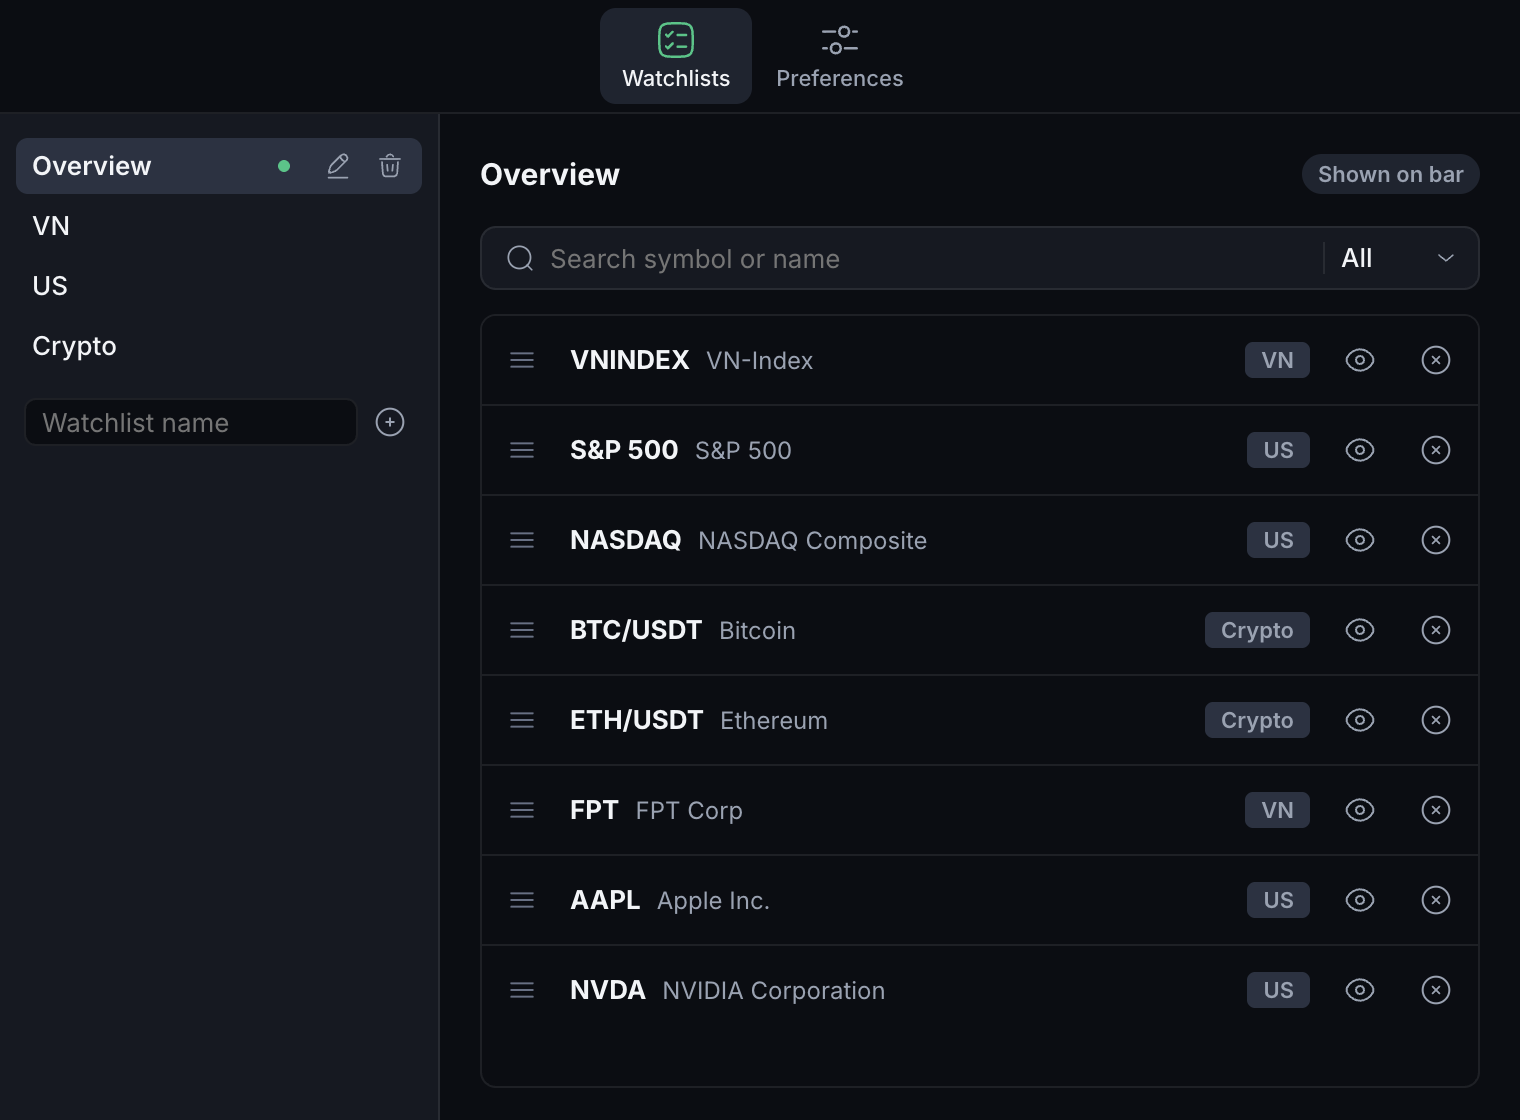
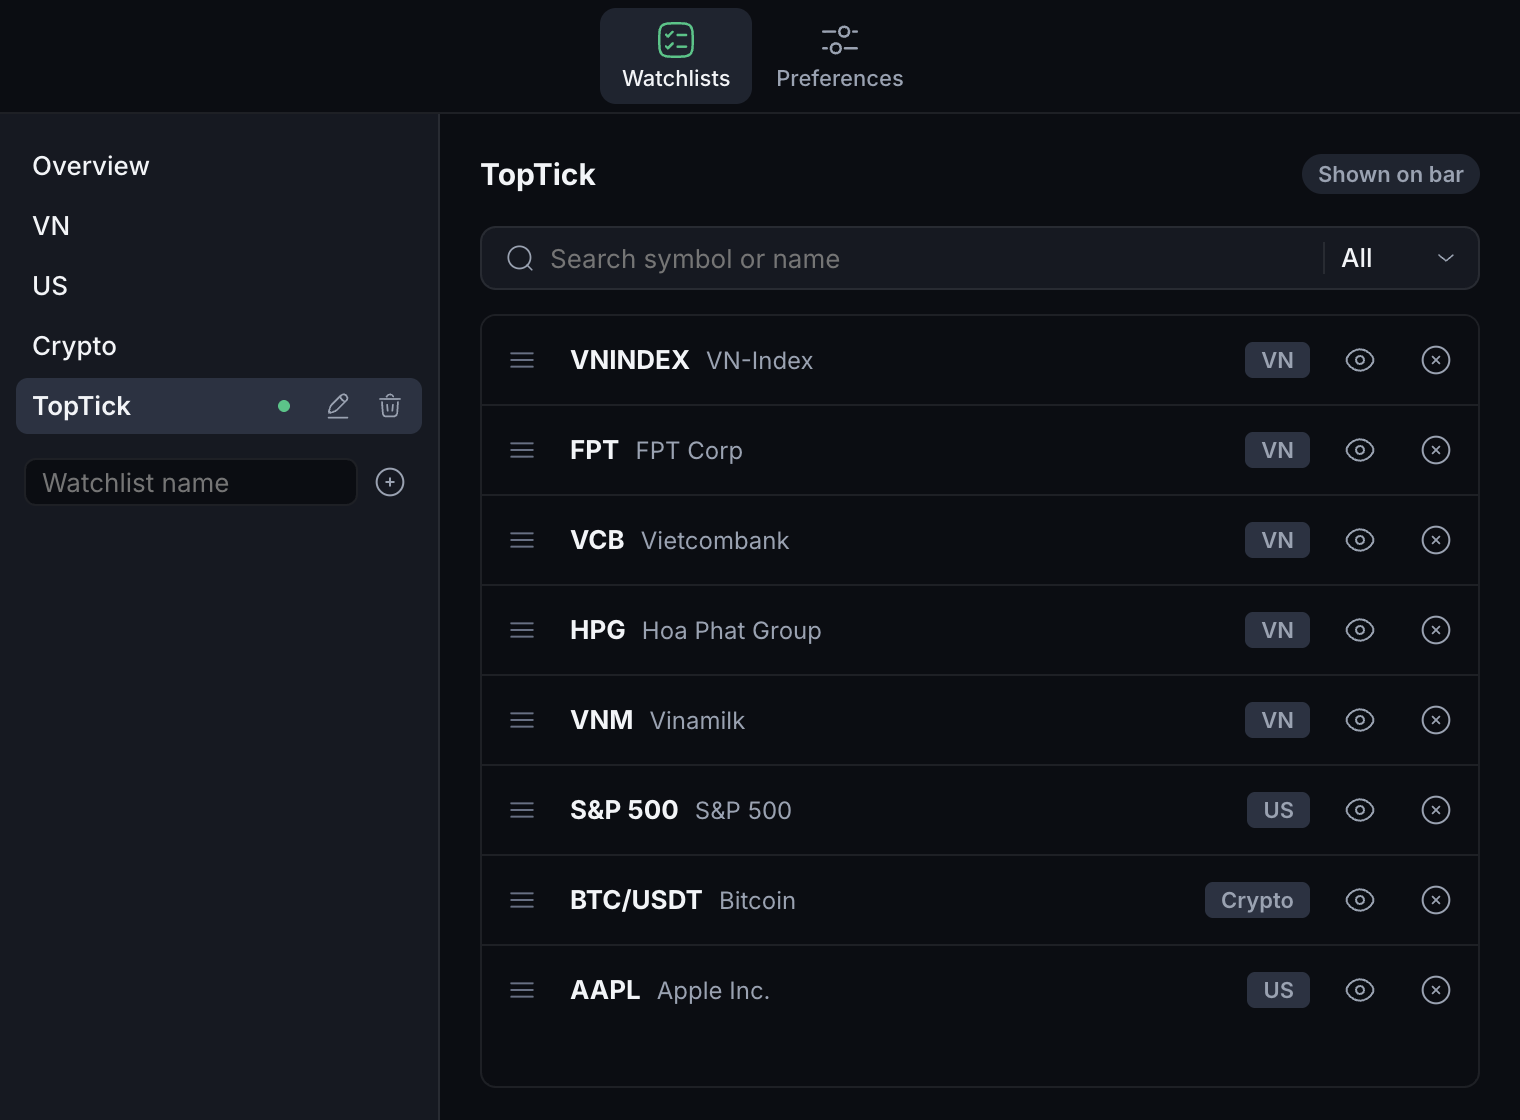
feat: light-theme floor #5AC8FA and reference #FFA800; README screenshots with a TopTick watchlist
Synced from main 33cc210.

diff --git a/tests/unit/contrast.test.ts b/tests/unit/contrast.test.ts
@@ -44,10 +44,28 @@ describe('tokens.css', () => {
   })
 })
 
+/**
+ * User decision 2026-11-09 (design.md D29): in the light theme the floor and reference tones use
+ * the user's exact colors, which are below 4.5:1. The asserted floor is the measured ratio, so a
+ * darker background or a lighter color still fails.
+ */
+const USER_EXCEPTIONS: Record<string, { hex: string; min: Record<(typeof BACKGROUNDS)[number], number> }> = {
+  'light --floor': { hex: '#5AC8FA', min: { '--surface-0-base': 1.89, '--surface-1': 1.76 } },
+  'light --ref': { hex: '#FFA800', min: { '--surface-0-base': 1.93, '--surface-1': 1.8 } }
+}
+
 describe.each(['dark', 'light'] as const)('NFR-6 contrast, %s theme', (theme) => {
   const tokens = themeTokens(theme)
   for (const bg of BACKGROUNDS) {
     for (const fg of FOREGROUNDS) {
+      const exception = USER_EXCEPTIONS[`${theme} ${fg}`]
+      if (exception) {
+        it(`${fg} on ${bg} >= ${exception.min[bg]}:1 (user-decided exception to 4.5:1)`, () => {
+          expect(tokens[fg]).toBe(exception.hex)
+          expect(contrast(tokens[fg]!, tokens[bg]!)).toBeGreaterThanOrEqual(exception.min[bg])
+        })
+        continue
+      }
       it(`${fg} on ${bg} >= 4.5:1`, () => {
         expect(contrast(tokens[fg]!, tokens[bg]!)).toBeGreaterThanOrEqual(4.5)
       })
@@ -98,7 +116,11 @@ describe('measured ratios match the design table', () => {
     ['light', '--up', '--surface-0-base', 5.4],
     ['light', '--down', '--surface-0-base', 5.21],
     ['light', '--down', '--surface-1', 4.86],
-    ['light', '--flat', '--surface-1', 5.04]
+    ['light', '--flat', '--surface-1', 5.04],
+    ['light', '--floor', '--surface-0-base', 1.9],
+    ['light', '--floor', '--surface-1', 1.77],
+    ['light', '--ref', '--surface-0-base', 1.93],
+    ['light', '--ref', '--surface-1', 1.81]
   ] as const)('%s %s on %s = %s', (theme, fg, bg, expected) => {
     const t = themeTokens(theme)
     expect(contrast(t[fg]!, t[bg]!)).toBeCloseTo(expected, 1)

diff --git a/src/renderer/styles/tokens.css b/src/renderer/styles/tokens.css
@@ -43,9 +43,9 @@
   --up: #037A4B;
   --down: #D1281C;
   --flat: #5D6B82;
-  --ref: #8F6200; /* darker than the dark-theme yellow: #FFBE0A is 1.7:1 on white */
+  --ref: #FFA800; /* user decision 2026-11-09: below 4.5:1 on purpose (1.93:1 on white), see contrast.test.ts */
   --ceiling: #9333C7;
-  --floor: #00749F;
+  --floor: #5AC8FA; /* user decision 2026-11-09: below 4.5:1 on purpose (1.90:1 on white), see contrast.test.ts */
   --accent: #037A4B; /* = --up (the icon green #16C784 is only 2.3:1 on white) */
   --selection: #C4E6D6;
   --warn: #DC8A00;

diff --git a/README.md b/README.md
@@ -25,7 +25,7 @@ TopTick is a small desktop bar that scrolls live prices for Vietnamese stocks an
 |---|---|
 | ![Settings window, Watchlists tab, dark theme](docs/screenshots/settings-watchlists-dark.png) | ![Settings window, Preferences tab, light theme](docs/screenshots/settings-preferences-light.png) |
 
-The two bar screenshots use made-up data, so that one bar shows the ceiling, reference, floor, up and down colors. The Settings screenshots show real data, captured after the US and Vietnamese markets had closed.
+All screenshots use made-up data in an example "TopTick" watchlist, so that one bar shows the ceiling, reference, floor, up and down colors.
 
 ## Platforms
 
